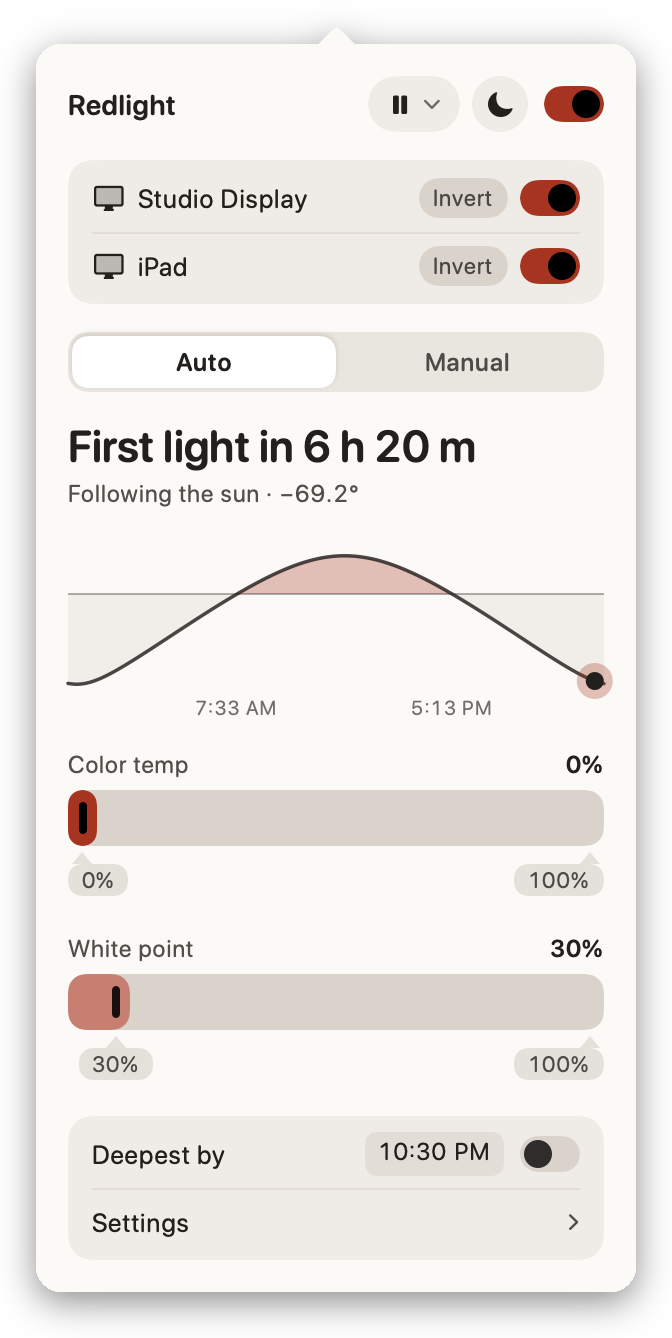
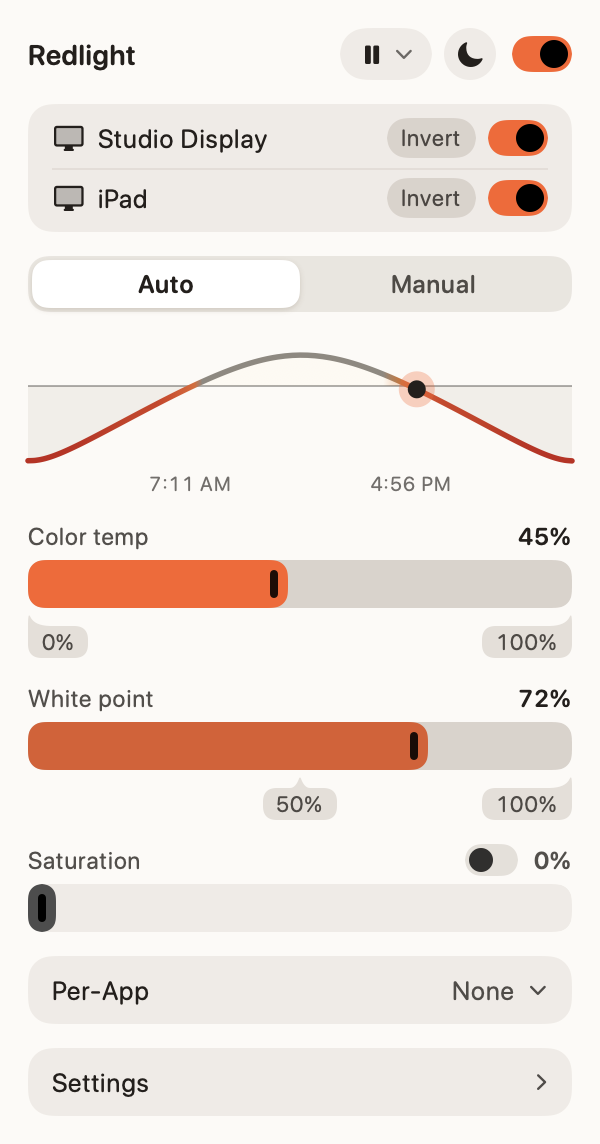
Refresh the README's tl;dr, popover screenshots and real-world photo
The tl;dr lists 2.0's features. The popover screenshots are rendered from the
readme snapshot state, which now finds a longitude where the sun has just set
at the moment of the run, so it can be re-rendered at any hour. The new photo
is resized and stripped of its location and camera metadata.

diff --git a/Tests/RedlightTests/PopoverSnapshotTests.swift b/Tests/RedlightTests/PopoverSnapshotTests.swift
@@ -309,18 +309,33 @@ struct PopoverState {
         }.showing { $0.menuBarView(page: .settings, MenuBarInitialState(updateAvailable: true)) },
         PopoverState("about") { $0.manager.applyPreset(3) }.showing { $0.menuBarView(page: .about) },
         // The README's picture: Auto a little after sunset. The sun arc follows the wall clock,
-        // so the scene is wherever the sun has just set at the moment of the run: Lisbon, on
-        // UTC in winter, for a run around noon in Chicago. Run it alone with
+        // so the scene is wherever, at Lisbon's latitude, the sun has just set at the moment of
+        // the run (`readmeScene`), on that longitude's own hour. Run it alone with
         // REDLIGHT_SNAPSHOT_STATES=readme.
         PopoverState("readme", displays: ["Studio Display", "iPad"], defaults: adaptive(),
-                     location: .at(latitude: 38.72, longitude: -9.14), clock: .wall)
+                     location: .at(latitude: readmeScene.latitude, longitude: readmeScene.longitude), clock: .wall)
             .showing {
                 var calendar = Calendar(identifier: .gregorian)
-                calendar.timeZone = TimeZone(identifier: "Europe/Lisbon")!
+                calendar.timeZone = readmeScene.timeZone
                 return AnyView($0.menuBarView()
                     .environment(\.calendar, calendar).environment(\.timeZone, calendar.timeZone))
             },
     ]
+
+    /// Where the sun is 3° below the horizon and still going down, at Lisbon's latitude, now:
+    /// a little after sunset. The time zone is that longitude's whole hour.
+    static let readmeScene: (latitude: Double, longitude: Double, timeZone: TimeZone) = {
+        let now = Date(), latitude = 38.72
+        var best = 0.0, bestGap = Double.infinity
+        for step in -360...360 {
+            let longitude = Double(step) / 2
+            guard !SolarCalculator.isRising(at: now, longitude: longitude) else { continue }
+            let gap = abs(SolarCalculator.elevation(at: now, latitude: latitude, longitude: longitude) + 3)
+            if gap < bestGap { best = longitude; bestGap = gap }
+        }
+        let zone = TimeZone(secondsFromGMT: Int((best / 15).rounded()) * 3600) ?? .gmt
+        return (latitude, best, zone)
+    }()
 
     /// A saved model with a learned minimum and a part of the evening on each slider, as
     /// weeks of learning would leave it. The limits saved with it are its flags.

diff --git a/README.md b/README.md
@@ -10,30 +10,32 @@ screen's true colours (see [Screenshots, recordings and screen sharing](#screens
 
 See the [changelog](CHANGELOG.md) for release history.
 
-<p align="center"><picture><source media="(prefers-color-scheme: light)" srcset="screenshots/menubar-light.png"><img src="screenshots/menubar.png" alt="Redlight popover in Auto just after sunset, showing a monitor and a Sidecar iPad at the top, the next solar event, the sun arc with sunrise and sunset times, Color Temp and White Point sliders, Deepest by and Settings, with Pause and the light/dark switch in the header" height="420"></picture>
-  <img src="screenshots/real-world.jpg" alt="Photo of a desktop monitor with Redlight's filter on, turning the whole screen deep red while showing the Redlight README" height="420"></p>
+<p align="center"><picture><source media="(prefers-color-scheme: light)" srcset="screenshots/menubar-light.png"><img src="screenshots/menubar.png" alt="Redlight popover in Auto just after sunset: a monitor and a Sidecar iPad with Invert and on/off switches, the Auto/Manual switch, the sun arc with sunrise and sunset times, Color temp and White point sliders with Auto's limit flags, Saturation with its switch, Per-App and Settings, with Pause, the light/dark switch and the master switch in the header" height="420"></picture>
+  <img src="screenshots/real-world.jpg" alt="Photo of a desktop monitor with Redlight's filter on, turning the whole screen deep red while showing Redlight's GitHub page, with the Redlight popover open in Auto at 750 K" height="420"></p>
 
 ## tl;dr
 
 Free open source blue light filter mac app that:
-- goes total red (way past night shift limits)
-- white point reduction
-- saturation down to grayscale
-- color temp as % or as real kelvin, calibrated to your display's profile
-- per-app rules: pause, hold or shift the tint while an app is in front
-- learns how you like it at each time of day
-- invisible to screenshots, screen recording and screen sharing
-- multi monitor support / disable and invert
-- ipad sidecar support
-- dark and light mode toggle
-- location-aware adaptive circadian rhythm over the day (allow location)
-- native hardware gpu accelerated: fast, efficient & lightweight
-- modern and elegant, not janky old archaic code
-- set and forget as a menu/task bar
-- command center and shortcut support
-- assignable keyboard shortcuts
-- cli & command line controllable (ai agent accessible)
+- goes total red (way past Night Shift limits)
+- white point reduction (dim without flickering)
+- b&w grayscale and saturation control
+- location-aware adaptive circadian rhythm over the day
+- adapts to your preferences over time
 - stream deck plugin
+- pause countdown and peek
+- per-app settings
+- multi monitor support / disable
+- ipad sidecar support
+- invert color per monitor
+- monitor color profile calibrated kelvin units
+- dark and light mode toggle
+- native gpu accelerated: fast, efficient & lightweight
+- modern design vs Iris and f.lux
+- menu bar only
+- control center and shortcut support
+- assignable keyboard shortcuts
+- cli controllable (ai agent accessible)
+- invisible to screenshots, screen recording and screen sharing
 - no tracking data sent, fully private
 
 ## What it does
